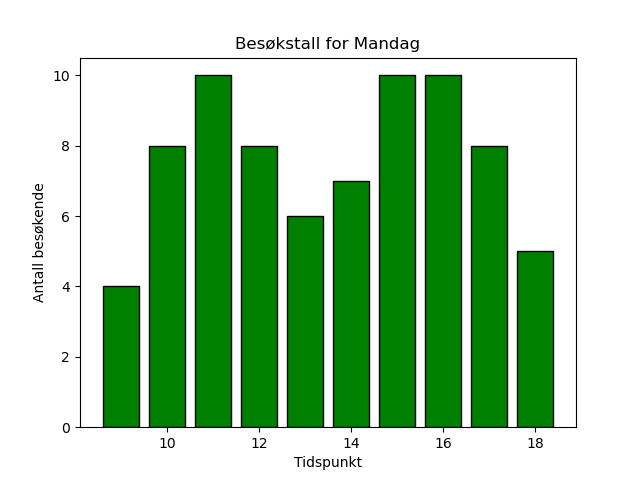
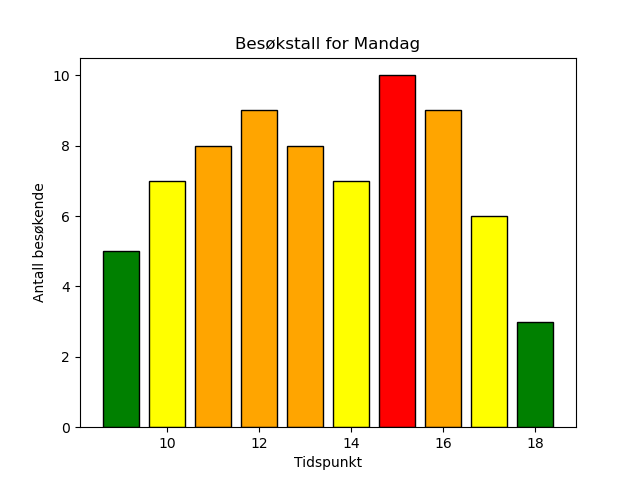
lag side for travle og ledige tider, ikke implementert anbefalte tider enda

Changed region(s): [[0.1562, 0.1562, 0.875, 0.9062]]

diff --git a/script.js b/script.js
@@ -27,73 +27,152 @@ document.addEventListener("DOMContentLoaded", function() {
         
         toggled ? dropDownButton.style.top = `${contentHeight + 90}px` : dropDownButton.style.top = `${90}px`
     }
-
+    
     dropDownButton.addEventListener("click", function() {
         toggled = !toggled;
         dropDownContent.classList.toggle("show");
         dropDownButton.classList.toggle("rotate");
         adjustButtonPosition();
     });
+    if (bergenButton) {
+        bergenButton.addEventListener("click", function() {
+            bergenContent.classList.toggle("show");
+            // Selecting the CCS selector "#bergen-button img" and applying the ".rotate" class
+            document.querySelector("#bergen-button img").classList.toggle("rotate");
+        });
 
-    bergenButton.addEventListener("click", function() {
-        bergenContent.classList.toggle("show");
-        // Selecting the CCS selector "#bergen-button img" and applying the ".rotate" class
-        document.querySelector("#bergen-button img").classList.toggle("rotate");
-    });
+        haugesundButton.addEventListener("click", function() {
+            haugesundContent.classList.toggle("show");
+            document.querySelector("#haugesund-button img").classList.toggle("rotate");
+        });
 
-    haugesundButton.addEventListener("click", function() {
-        haugesundContent.classList.toggle("show");
-        document.querySelector("#haugesund-button img").classList.toggle("rotate");
-    });
+        sogndalButton.addEventListener("click", function() {
+            sogndalContent.classList.toggle("show");
+            document.querySelector("#sogndal-button img").classList.toggle("rotate");
+        });
 
-    sogndalButton.addEventListener("click", function() {
-        sogndalContent.classList.toggle("show");
-        document.querySelector("#sogndal-button img").classList.toggle("rotate");
-    });
+        foerdeButton.addEventListener("click", function() {
+            foerdeContent.classList.toggle("show");
+            document.querySelector("#foerde-button img").classList.toggle("rotate");
+        });
 
-    foerdeButton.addEventListener("click", function() {
-        foerdeContent.classList.toggle("show");
-        document.querySelector("#foerde-button img").classList.toggle("rotate");
-    });
+        stordButton.addEventListener("click", function() {
+            stordContent.classList.toggle("show");
+            document.querySelector("#stord-button img").classList.toggle("rotate");
+        });
+    }
 
-    stordButton.addEventListener("click", function() {
-        stordContent.classList.toggle("show");
-        document.querySelector("#stord-button img").classList.toggle("rotate");
-    });
     adjustButtonPosition(); // For adjusting the position on page load
+
+    // Code for the graphs
+    const today = new Date().getDay();
+    const visitorGraph = document.getElementById("visitor-graph");
+    const mondayButton = document.getElementById("monday-button");
+    const tuesdayButton = document.getElementById("tuesday-button");
+    const wednesdayButton = document.getElementById("wednesday-button");
+    const thursdayButton = document.getElementById("thursday-button");
+    const fridayButton = document.getElementById("friday-button");
+
+    function resetButtons() {
+        mondayButton.classList.remove("unclickable");
+        tuesdayButton.classList.remove("unclickable");
+        wednesdayButton.classList.remove("unclickable");
+        thursdayButton.classList.remove("unclickable");
+        fridayButton.classList.remove("unclickable");
+    }
+
+    function setGraph(day) {
+        switch (day) {
+            case 2: // Tuesday
+                visitorGraph.src = "../besokstall_Tirsdag.png";
+                visitorGraph.alt = "graf over besøkstall på tirsdag";
+                resetButtons();
+                tuesdayButton.classList.add("unclickable");
+                break;
+            case 3: // Wednesday
+                visitorGraph.src = "../besokstall_Onsdag.png";
+                visitorGraph.alt = "graf over besøkstall på onsdag";
+                resetButtons();
+                wednesdayButton.classList.add("unclickable");
+                break;
+            case 4: // Thursday
+                visitorGraph.src = "../besokstall_Torsdag.png";
+                visitorGraph.alt = "graf over besøkstall på torsdag";
+                resetButtons();
+                thursdayButton.classList.add("unclickable");
+                break;
+            case 5: // Friday
+                visitorGraph.src = "../besokstall_Fredag.png";
+                visitorGraph.alt = "graf over besøkstall på fredag";
+                resetButtons();
+                fridayButton.classList.add("unclickable");
+                break;
+            default: // Monday, Saturday and Sunday and any exception will be treated as Monday.
+                visitorGraph.src = "../besokstall_Mandag.png";
+                visitorGraph.alt = "graf over besøkstall på mandag"
+                resetButtons();
+                mondayButton.classList.add("unclickable");
+                break;
+        }   
+    
+    }
+
+    setGraph(today);
+
+    mondayButton.addEventListener("click", () => {
+        setGraph(1);
+    });
+
+    tuesdayButton.addEventListener("click", () => {
+        setGraph(2);
+    })
+
+    wednesdayButton.addEventListener("click", () => {
+        setGraph(3);
+    });
+
+    thursdayButton.addEventListener("click", () => {
+        setGraph(4);
+    })
+
+    fridayButton.addEventListener("click", () => {
+        setGraph(5);
+    })
 });
 
-table.addEventListener("mousemove", (event) => {
-    const target = event.target;
+if (table) {
+    table.addEventListener("mousemove", (event) => {
+        const target = event.target;
 
-    if (target.tagName === "TD") {
-        const colIndex = target.cellIndex;
-        const row = target.parentElement;
-        const ths = table.querySelectorAll("thead th");
-        const leftmostTd = row.querySelector("td");
+        if (target.tagName === "TD") {
+            const colIndex = target.cellIndex;
+            const row = target.parentElement;
+            const ths = table.querySelectorAll("thead th");
+            const leftmostTd = row.querySelector("td");
 
-        removeHighlight();
+            removeHighlight();
 
-        if (colIndex != 0) {
-            if (ths[colIndex]) {
-                ths[colIndex].classList.add("highlight");
-            }
+            if (colIndex != 0) {
+                if (ths[colIndex]) {
+                    ths[colIndex].classList.add("highlight");
+                }
 
-            if (leftmostTd) {
-                leftmostTd.classList.add("highlight");
+                if (leftmostTd) {
+                    leftmostTd.classList.add("highlight");
+                }
             }
         }
+    });
+
+    table.addEventListener("mouseleave", () => {
+        removeHighlight();
+    });
+
+    function removeHighlight() {
+        const ths = table.querySelectorAll("th");
+        const tds = table.querySelectorAll("td");
+
+        ths.forEach(th => th.classList.remove("highlight"));
+        tds.forEach(td => td.classList.remove("highlight"));
     }
-});
-
-table.addEventListener("mouseleave", () => {
-    removeHighlight();
-});
-
-function removeHighlight() {
-    const ths = table.querySelectorAll("th");
-    const tds = table.querySelectorAll("td");
-
-    ths.forEach(th => th.classList.remove("highlight"));
-    tds.forEach(td => td.classList.remove("highlight"));
 }

diff --git a/HTML/travle_og_ledige_tider.html b/HTML/travle_og_ledige_tider.html
@@ -1,0 +1,54 @@
+<!DOCTYPE html>
+
+<html lang="no">
+    <head>
+        <meta charset="utf-8">
+        <meta name="viewport" content="width=device-width, initial-scale=1.0">
+        <link rel="stylesheet" href="../styles.css">
+        <link rel="icon" type="image/x-icon" href="../media/favicon.ico">
+        <title>travle_og_ledige_tider - HvL</title>
+    </head>
+    <body>
+        <header>
+            <a href="../index.html">
+                <img class="hvl-logo" src="../media/hvl_logo.svg" alt="HvL sin logo">
+            </a>
+        
+            <ul class="log-in-and-register">
+                <li><a href="logg_inn.html">Logg Inn</a></li>
+                <li><a href="lag_bruker.html">Lag Bruker</a></li>
+            </ul>
+        </header>
+        <nav class="drop-down">
+            <button class="drop-down-button"><strong>Navigasjon</strong><img src="../media/drop_down_button_black.svg" alt="Vis/skjul navigasjonsmeny"></button>
+            <ul class="drop-down-content">
+                <li><a href="../index.html">Hjem</a></li>
+                <li><a href="om_laeringslabbene.html">Om læringslabbene</a></li>
+                <li><a href="loesninger_resultat_og_virkning.html">Løsninger, resultat og virkning</a></li>
+                <li><a href="baerekraft_og_samfunnsansvar.html">Bærekraft og samfunnsansvar</a></li>
+                <li><a href="kontakt.html">Kontakt og sammarbeid</a></li>
+                <li class="current-page"><strong>Travle og Ledige Tider</strong></li>
+            </ul>
+        </nav>
+
+        <ul class="log-in-and-register">
+            <li><a href="logg_inn.html">Logg Inn</a></li>
+            <li><a href="lag_bruker.html">Lag Bruker</a></li>
+        </ul>
+
+        <main class="content-body">
+            <div class="graph-container">
+                <img id="visitor-graph" src="../besokstall_Mandag.png" alt="graf over besøkstall på mandag">
+                <div class="button-container">
+                    <button id="monday-button" aria-label="Vis graf for mandag" aria-pressed="true">Mandag</button>
+                    <button id="tuesday-button" aria-label="Vis graf for tirsdag" aria-pressed="false">Tirsdag</button>
+                    <button id="wednesday-button" aria-label="Vis graf for onsdag" aria-pressed="false">Onsdag</button>
+                    <button id="thursday-button" aria-label="Vis graf for torsdag" aria-pressed="false">Torsdag</button>
+                    <button id="friday-button" aria-label="Vis graf for fredag" aria-pressed="false">Fredag</button>
+                </div>
+            </div>
+        </main>
+
+        <script src="../script.js"></script>
+    </body>
+</html>

diff --git a/styles.css b/styles.css
@@ -30,6 +30,7 @@ h2 {
 
 button {
     font-family: inherit;
+    cursor: pointer;
 }
 
 header {
@@ -202,7 +203,6 @@ td:first-child, th:first-child {
 
 .drop-down-button:hover {
     background-color: #CEF0F3;
-    cursor: pointer;
 }
 
 .drop-down-box {
@@ -314,6 +314,30 @@ td:first-child, th:first-child {
 
 .logg-inn-or-register-button {
     padding: 0.75rem 1.5rem;
-    cursor: pointer;
     min-height: 44px;
+}
+
+.graph-container {
+    margin: auto;
+    width: 80%;
+}
+
+#visitor-graph {
+    width: 100%;
+    height: auto;
+}
+
+.button-container {
+    display: flex;
+    justify-content: space-evenly;
+}
+
+.button-container button {
+    width: 100%;
+    height: 50px;
+}
+
+.button-container button.unclickable {
+    cursor: not-allowed;
+    background-color: #F5F5F5;
 }

diff --git a/index.html b/index.html
@@ -33,6 +33,7 @@
                 <li><a href="HTML/loesninger_resultat_og_virkning.html">Løsninger, resultat og virkning</a></li>
                 <li><a href="HTML/baerekraft_og_samfunnsansvar.html">Bærekraft og samfunnsansvar</a></li>
                 <li><a href="HTML/kontakt.html">Kontakt og sammarbeid</a></li>
+                <li><a href="HTML/travle_og_ledige_tider.html">Travle og Ledige Tider</a></li>
             </ul>
         </nav>
         <div class="content-body">

diff --git a/HTML/kontakt.html b/HTML/kontakt.html
@@ -30,6 +30,7 @@
                 <li><a href="loesninger_resultat_og_virkning.html">Løsninger, resultat og virkning</a></li>
                 <li><a href="baerekraft_og_samfunnsansvar.html">Bærekraft og samfunnsansvar</a></li>
                 <li class="current-page"><strong>Kontakt og sammarbeid</strong></li>
+                <li><a href="travle_og_ledige_tider.html">Travle og Ledige Tider</a></li>
             </ul>
         </nav>
         <div class="content-body">    

diff --git a/HTML/om_laeringslabbene.html b/HTML/om_laeringslabbene.html
@@ -35,6 +35,7 @@
                 <li><a href="loesninger_resultat_og_virkning.html">Løsninger, resultat og virkning</a></li>
                 <li><a href="baerekraft_og_samfunnsansvar.html">Bærekraft og samfunnsansvar</a></li>
                 <li><a href="kontakt.html">Kontakt og sammarbeid</a></li>
+                <li><a href="travle_og_ledige_tider.html">Travle og Ledige Tider</a></li>
             </ul>
         </nav>
         <div class="content-body">

diff --git a/HTML/baerekraft_og_samfunnsansvar.html b/HTML/baerekraft_og_samfunnsansvar.html
@@ -30,6 +30,7 @@
                 <li><a href="loesninger_resultat_og_virkning.html">Løsninger, resultat og virkning</a></li>
                 <li class="current-page"><strong>Bærekraft og samfunnsansvar</strong></li>
                 <li><a href="kontakt.html">Kontakt og sammarbeid</a></li>
+                <li><a href="travle_og_ledige_tider.html">Travle og Ledige Tider</a></li>
             </ul>
         </nav>
         <div class="content-body">

diff --git a/HTML/loesninger_resultat_og_virkning.html b/HTML/loesninger_resultat_og_virkning.html
@@ -30,6 +30,7 @@
                 <li class="current-page"><strong>Løsninger, resultat og virkning</strong></li>
                 <li><a href="baerekraft_og_samfunnsansvar.html">Bærekraft og samfunnsansvar</a></li>
                 <li><a href="kontakt.html">Kontakt og sammarbeid</a></li>
+                <li><a href="travle_og_ledige_tider.html">Travle og Ledige Tider</a></li>
             </ul>
         </nav>
         <div class="content-body">

diff --git a/csvTilPlot.py b/csvTilPlot.py
@@ -30,7 +30,7 @@ def main():
         
         # Utfør et kall på anbefalteTidsrom-funksjonen med følgende argument: dag, liste over tidspunkt, 
         # liste over besøkende og grenseverdi.
-        anbefalteTidsrom(rad[0], x, y, 50)
+        anbefalteTidsrom(rad[0], x, y, 7)
         
         # Utfør et kall på plotGraf-funksjonen med verdiene for x- og y-aksen som argument, samt navnet på dagen.
         plotGraf(x, y, rad[0])
@@ -58,7 +58,7 @@ def importerBesoekertall(filnavn):
 def plotGraf(x, y, navn):
     
     # Opprett fire grenseverdier som spesifiserer lite, medium, høyt og veldig høyt besøkstall.
-    grenseverdier = [0, 20, 40, 60]
+    grenseverdier = [3, 6, 8, 10]
     
     # Spesifiserer fargene i plottet. Vi bruker listekomprehensjon som setter verdier basert på elementene i listen,
     # dvs. vi går gjennom alle verdiene i listen og setter de til en ny verdi basert på sannhetsuttrykk.
